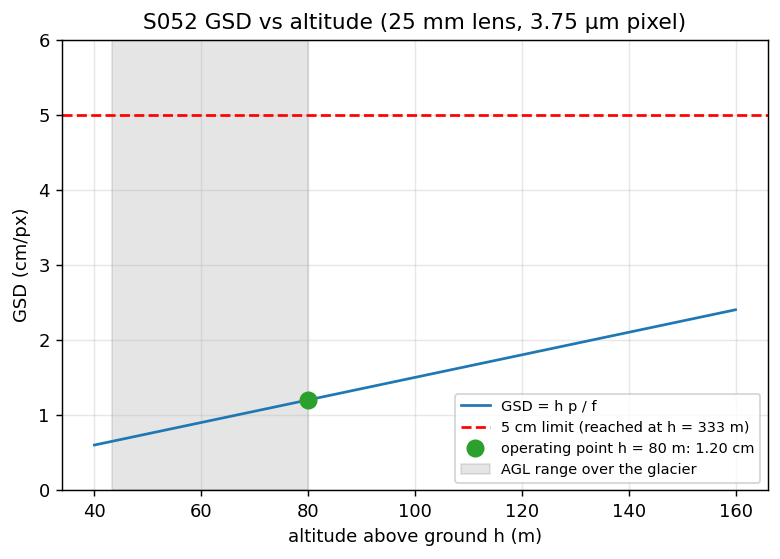
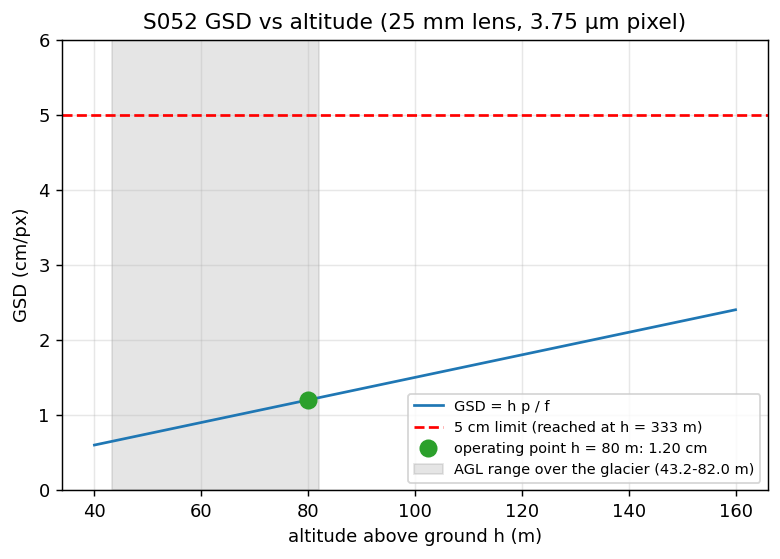
Fix S052 Glacier Melt Area Measurement: address review follow-ups

Changed region(s): [[0.5231, 0.6995, 0.9846, 0.8819], [0.4, 0.0608, 0.4308, 0.6995], [0.4, 0.7299, 0.4308, 0.8819]]

diff --git a/src/03_environmental_sar/s052_glacier.py b/src/03_environmental_sar/s052_glacier.py
@@ -96,6 +96,13 @@ def terrain(x, y):
     return flank + und
 
 
+def agl_range():
+    """Min / max AGL of the fixed flight altitude over the glacier (coverage-grid cells)."""
+    gxx, gyy = grid_centres(COV_RES)
+    z = terrain(gxx[None, :], gyy[:, None])
+    return Z_FLY - z.max(), Z_FLY - z.min()
+
+
 # ── Flight plans ──────────────────────────────────────────────────────────────
 
 def coarse_profile(rng):
@@ -529,9 +536,9 @@ def plot_gsd_altitude(res, out_dir):
     ax.axhline(GSD_LIMIT_CM, color='red', ls='--', label=f'{GSD_LIMIT_CM:.0f} cm limit (reached at h = {h_lim:.0f} m)')
     g80 = ALTITUDE * PIXEL_PITCH / FOCAL_LENGTH * 100
     ax.plot(ALTITUDE, g80, 'o', color='tab:green', ms=9, label=f'operating point h = 80 m: {g80:.2f} cm')
-    gxx, gyy = grid_centres(COV_RES)
-    agl_min = Z_FLY - terrain(gxx[None, :], gyy[:, None]).max()
-    ax.axvspan(agl_min, ALTITUDE, color='grey', alpha=0.2, label='AGL range over the glacier')
+    agl_min, agl_max = agl_range()
+    ax.axvspan(agl_min, agl_max, color='grey', alpha=0.2,
+               label=f'AGL range over the glacier ({agl_min:.1f}-{agl_max:.1f} m)')
     ax.set_xlabel('altitude above ground h (m)')
     ax.set_ylabel('GSD (cm/px)')
     ax.set_ylim(0, 6)
@@ -648,7 +655,8 @@ if __name__ == '__main__':
           f'card first expression 1/(Of*Os) = {1 / (FORWARD_OVERLAP * SIDE_OVERLAP):.2f}')
     zt = terrain(np.array([0.0, 300.0]), np.array([0.0, 0.0]))
     print(f'  Terrain: centreline z = {zt[1]:.1f} m, flank edge z = {zt[0]:.1f} m '
-          f'-> AGL {Z_FLY - zt[0]:.0f}..{Z_FLY - zt[1]:.0f} m; min AGL along adaptive flight '
+          f'(without undulation); AGL over the glacier incl. the +-{UND_AMP:.0f} m undulation '
+          f'{agl_range()[0]:.2f}..{agl_range()[1]:.2f} m; min AGL along adaptive flight '
           f'{res["agl_traj_min"]:.1f} m')
     xs_c, z_plan = res['dem']
     gxx, gyy = grid_centres(COV_RES)

diff --git a/outputs/03_environmental_sar/s052_glacier/README.md b/outputs/03_environmental_sar/s052_glacier/README.md
@@ -161,7 +161,7 @@ Distance and time (ratio to unidirectional), area meeting 80/60 overlap (red = a
 
 ### GSD vs Altitude
 
-GSD grows linearly with AGL. At the 80 m operating point it is 1.20 cm/px; the 5 cm limit is reached only at 333 m. The grey band is the AGL range over the glacier (80 m minus the 36.77 m terrain maximum, up to 80 m); the lowest AGL along the adaptive flight is 43.0 m:
+GSD grows linearly with AGL. At the 80 m operating point it is 1.20 cm/px; the 5 cm limit is reached only at 333 m. The grey band is the AGL range over the glacier, 43.23–82.00 m (80 m minus the 36.77 m terrain maximum, up to 82.00 m where the ±2 m undulation dips below the centreline datum); the lowest AGL along the adaptive flight is 43.0 m:
 
 ![GSD vs Altitude](./gsd_altitude.png)
 
